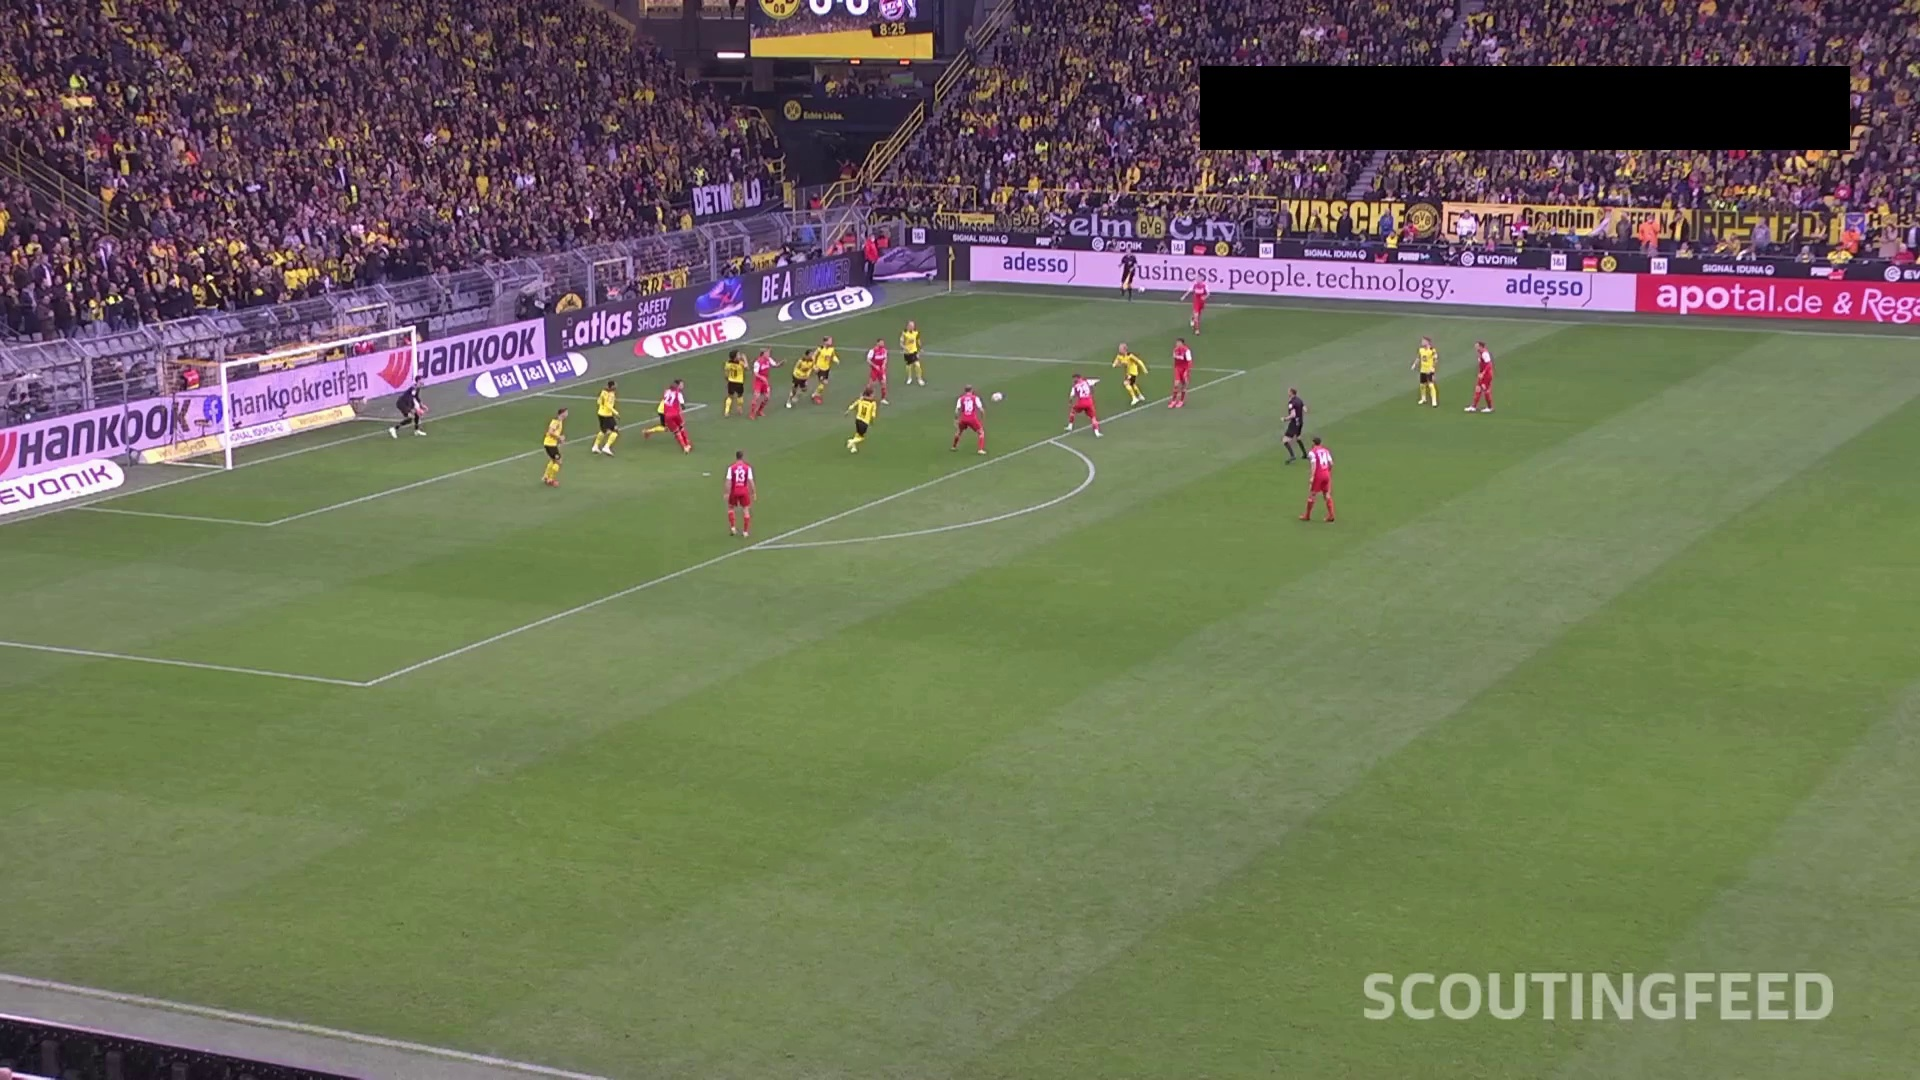
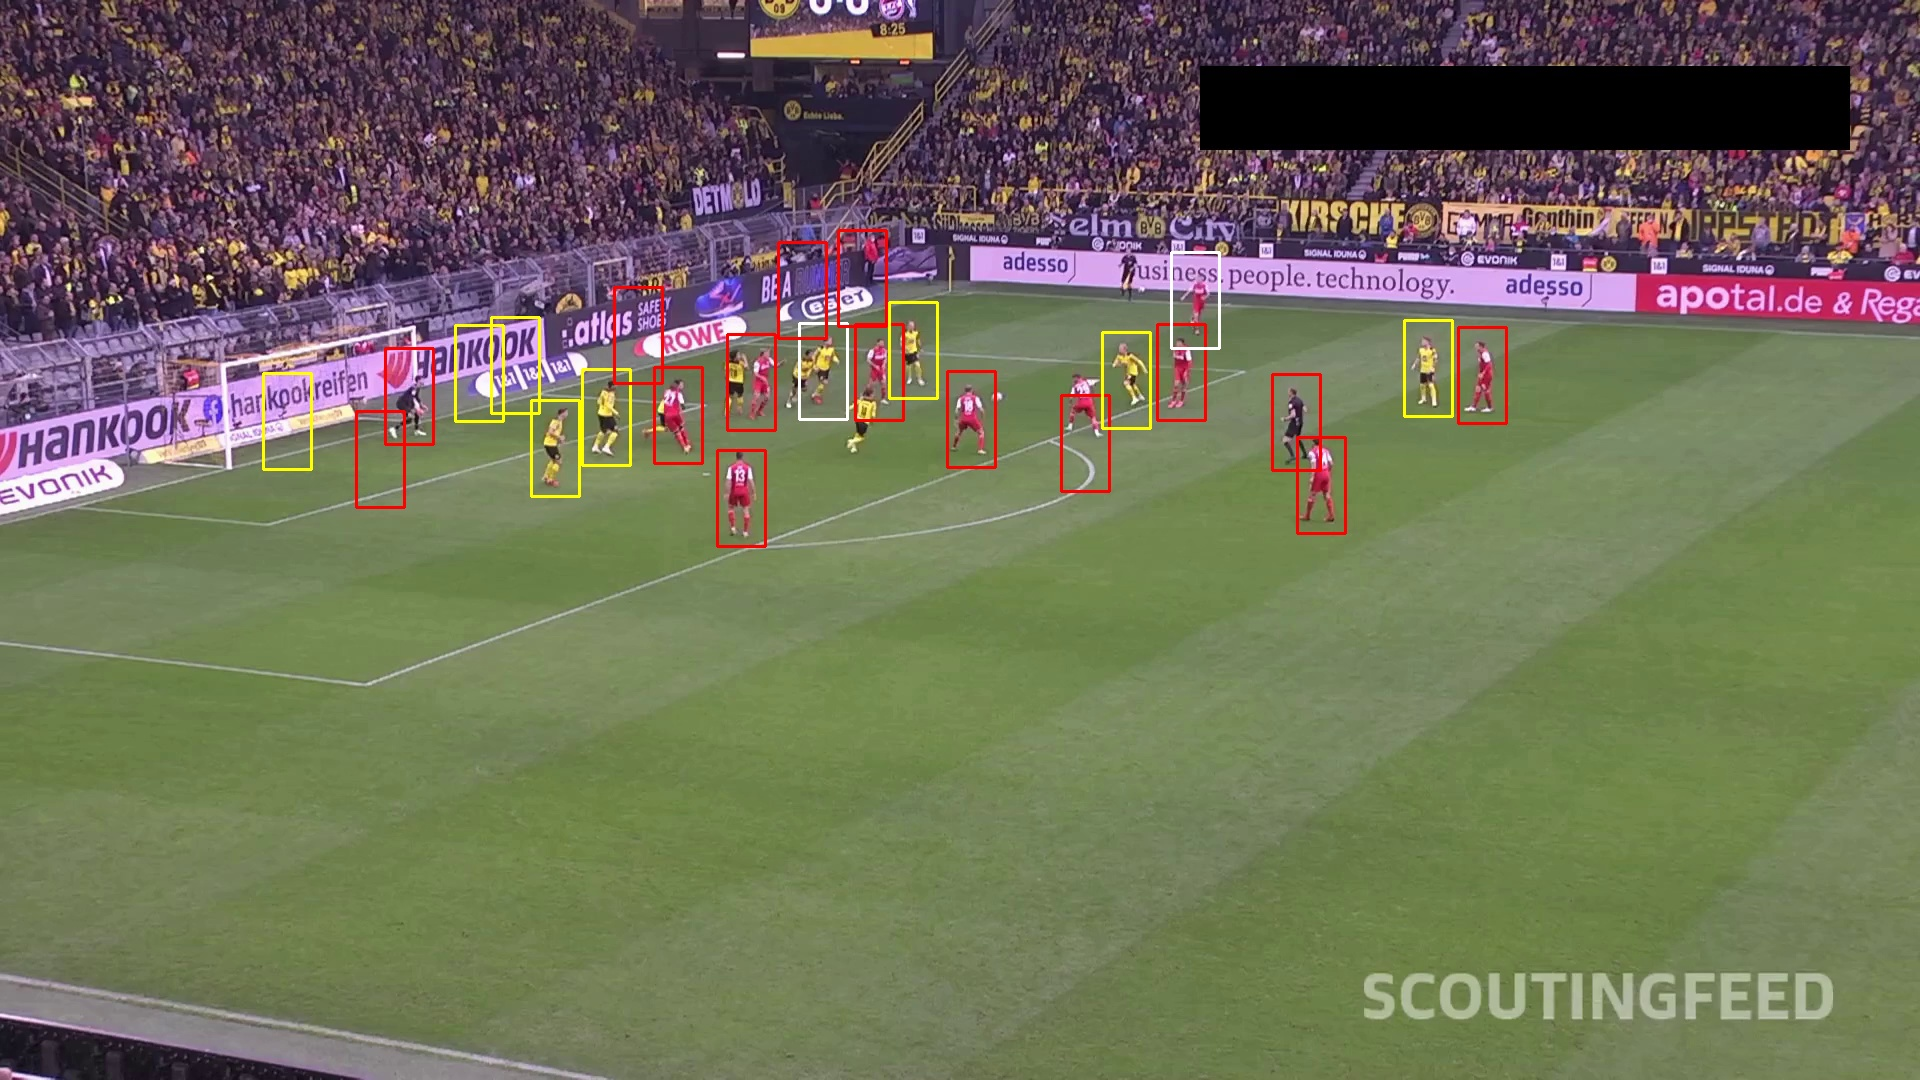
Cleaned some useless stuff

diff --git a/src/frame_detection.py b/src/frame_detection.py
@@ -63,7 +63,6 @@ def detect_people(image, original):
     '''
     Pedestrian detection with HOG. Return coordinates of squares where should be located people in the court.
     '''
-    start_time = time.time()
 
     # Pre-processing of the image
     gray_image = cv2.cvtColor(image, cv2.COLOR_BGR2GRAY)
@@ -77,25 +76,25 @@ def detect_people(image, original):
     # apply non-maxima suppression to the bounding boxes using a fairly large overlap threshold to try to maintain overlapping boxes that are still people
     players = np.array([[x, y, x + w, y + h] for (x, y, w, h) in players])
     pick = non_max_suppression(players, probs=None, overlapThresh=0.4)
+    
+    return pick
 
-    # draw the final bounding boxes
-    for (xA, yA, xB, yB) in pick:
+def draw_bbox(coords, image, original):
+    '''
+    Given a sequence of coordinates, draw the bounding box with the team color that is inside the bounding box.
+    '''
+
+    for (xA, yA, xB, yB) in coords:
         roi = image[yA:yB, xA:xB]
         bbox_color = analyze_color_statistics(roi)
 
-        # Assicurati che bbox_color sia una tupla di tre elementi (B, G, R)
+        # Check if the color is correct
         if isinstance(bbox_color, tuple) and len(bbox_color) == 3:
             cv2.rectangle(original, (xA, yA), (xB, yB), bbox_color, 2)
         else:
             print("Colore del bounding box non valido")
 
-
-    cv2.imwrite("results/img/colored-bbox-v1.jpg", original)
-
-    #tell me the time of HOG. To remove in product
-    end_time = time.time()
-    elapsed_time = end_time - start_time
-    print(f"Tempo impiegato: {elapsed_time} secondi")
+    cv2.imwrite("results/img/colored-bbox-v2.jpg", original)
 
 def classify_color(color):
     '''
@@ -112,26 +111,15 @@ def classify_color(color):
     else:
         return 'non specificato', (255, 255, 255)
 
-def euclidean_distance(color1, color2):
-    '''
-    Return the distance between two colors (the standard color and the color that is inside the bounding box). The nearest color is the one assigned
-    '''
-
-    return np.sqrt(np.sum((color1 - color2) ** 2))
-
 def classify_color_euclidean(rgb_color):
     '''
     Classify the color of the bounding box with the comparison between the color inside the bounding box and the standard ones
     '''
-    # Definisci i colori standard RGB per giallo e rosso
-    yellow_standard = np.array([255, 255, 0])
-    red_standard = np.array([255, 0, 0])
 
-    # Calcola la distanza dal giallo e dal rosso
-    distance_to_yellow = euclidean_distance(rgb_color, yellow_standard)
-    distance_to_red = euclidean_distance(rgb_color, red_standard)
+    distance_to_yellow = np.sqrt(np.sum((rgb_color - yellow_standard) ** 2))
+    distance_to_red = np.sqrt(np.sum((rgb_color -  red_standard) ** 2))
 
-    # Classifica in base alla distanza minima
+    # Classification of the color based on the distance with the standard colours
     if distance_to_yellow < distance_to_red:
         return 'giallo', (0, 255, 255)
     elif distance_to_red < distance_to_yellow:
@@ -144,6 +132,7 @@ def find_prevalent_color(avg_color, med_color, mod_color):
     Define the prevalent color of bounding box. Given average colour, median colour and moda.
     If 2 of this 3 variables has the same colour, so it's defined as the prevalent colour. 
     '''
+
     colors = [classify_color_euclidean(avg_color), classify_color_euclidean(med_color), classify_color_euclidean(mod_color)]
     color_count = {}
 
@@ -166,7 +155,8 @@ def analyze_color_statistics(roi, value_threshold=30):
     Filtering the darker pixels and extract the colour stats usefull for the analysis.
     Using average, median and moda, we can avoid errors in defining the color of the box.
     '''
-    # For each RGB channel, filter the darker pixels
+
+    # For each RGB channel, filter the darker pixels so they don't affect the computing of colors
     non_black_pixels_mask = (roi[:, :, 0] > value_threshold) & \
                             (roi[:, :, 1] > value_threshold) & \
                             (roi[:, :, 2] > value_threshold)
@@ -184,12 +174,15 @@ def analyze_color_statistics(roi, value_threshold=30):
     bbox_color = find_prevalent_color(average_color, median_color, moda_color)
     return bbox_color
 
-roi = get_roi(image)
-black_court = remove_court(roi)
-detect_people(black_court, image)
-
+get_roi(image)
 cv2.waitKey(0)
 cv2.destroyAllWindows()
+
+roi = get_roi(image) 
+court_removed = remove_court(roi)
+coordinates = detect_people(court_removed, original)
+draw_bounding_box = draw_bbox(coordinates, image, original)
+
 
 print(" + COMPLETE : Detection of players in court.\n")
 print(" - You can find the result image in results/img/colored-bbox-v1.jpg \n")

diff --git a/src/CAMShift.py b/src/CAMShift.py
@@ -1,0 +1,66 @@
+print("\n + RUNNING : CAMshift.")
+
+from utils  import *
+
+
+cap = cv2.VideoCapture(video_path)
+
+# take first frame of the video
+ret,frame = cap.read()
+
+
+# setup initial location of window
+x, y, w, h = 1290, 430, 50, 100 # simply hardcoded the values
+x2, y2, w2, h2 = 710, 450, 50, 100 # simply hardcoded the values
+
+track_window = (x, y, w, h)
+track_window2 = (x2, y2, w2, h2)
+
+# set up the ROI for tracking
+roi = frame[y:y+h, x:x+w]
+hsv_roi =  cv2.cvtColor(roi, cv2.COLOR_BGR2HSV)
+
+
+if color == 'rosso':
+# Creazione delle maschere per catturare il rosso
+mask1 = cv2.inRange(hsv_roi, lower_red1, upper_red1)
+mask2 = cv2.inRange(hsv_roi, lower_red2, upper_red2)
+
+# Combinazione delle maschere
+mask = cv2.bitwise_or(mask1, mask2)
+
+roi_hist = cv2.calcHist([hsv_roi],[0],mask,[180],[0,180])
+cv2.normalize(roi_hist,roi_hist,0,255,cv2.NORM_MINMAX)
+# Setup the termination criteria, either 10 iteration or move by at least 1 pt
+
+term_crit = (cv2.TERM_CRITERIA_EPS | cv2.TERM_CRITERIA_COUNT, 10, 1)
+while(1):
+    ret, frame = cap.read()
+    if ret == True:
+        hsv = cv2.cvtColor(frame, cv2.COLOR_BGR2HSV)
+        dst = cv2.calcBackProject([hsv],[0],roi_hist,[0,180],1)
+
+        # apply camshift to get the new location
+        ret, track_window = cv2.CamShift(dst, track_window, term_crit)
+        # Draw it on image
+        pts = cv2.boxPoints(ret)
+        pts = np.int0(pts)
+
+        img2 = cv2.polylines(frame,[pts],True, 255, 2)
+
+        ret, track_window2 = cv2.CamShift(dst, track_window2, term_crit)
+
+        # Draw it on image
+        pts = cv2.boxPoints(ret)
+        pts = np.int0(pts)
+
+        img2 = cv2.polylines(frame,[pts],True, 120, 2)
+
+        cv2.imshow('img2',img2)
+        k = cv2.waitKey(30) & 0xff
+        if k == 27:
+            break
+    else:
+        break
+
+print(" + COMPLETE : CAMShift.")
